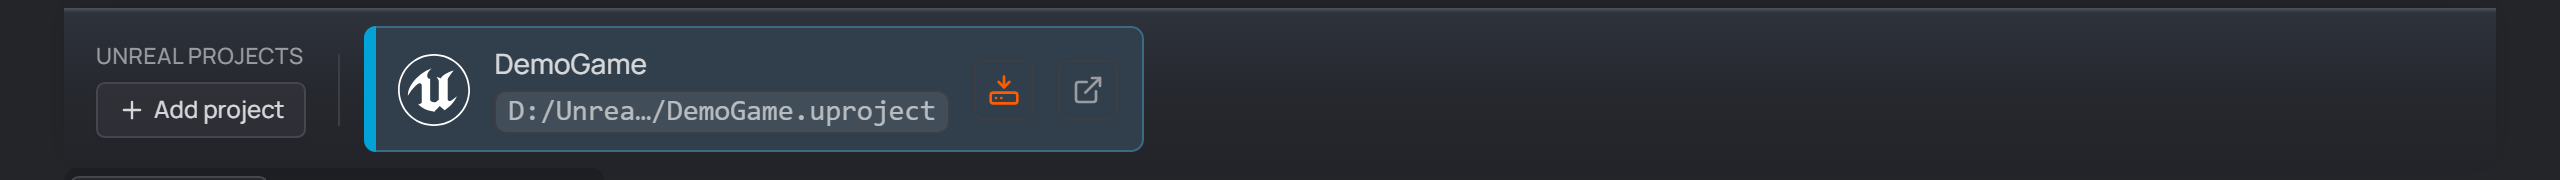
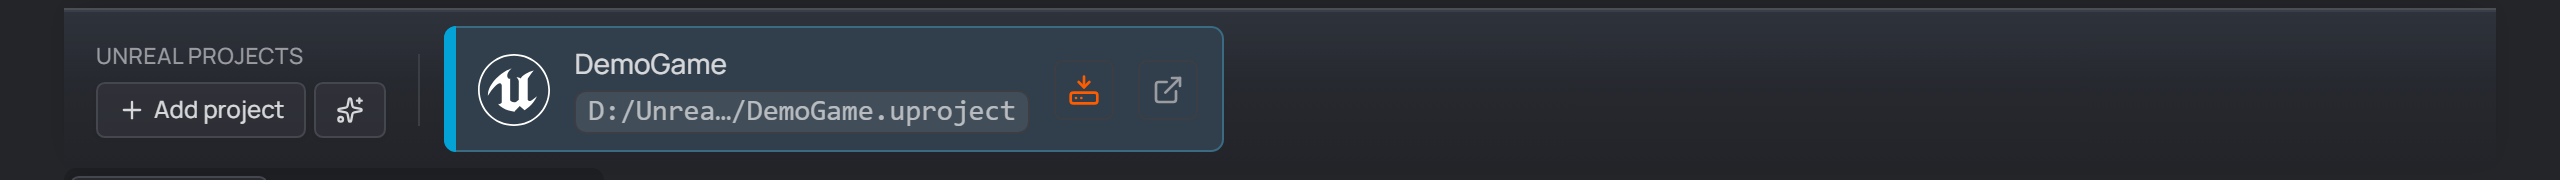
fix(web): grill follow-ups on the Unreal install dialogs
- Generate dialog: the engine list and the plugin scan load separately,
  each caught — a failed plugin scan degrades to "no offered builds"
  instead of an unhandled rejection pinning "Looking for engines…".
- Install dialog: a partial-failure retry keeps only the FAILED items
  checked after the re-probe — it no longer re-checks what succeeded,
  nor wipes a hand-picked GUID-project selection back to DTH-only.
- matchPluginsToEngine: the tie-break doc claimed "first configured
  folder wins"; the scan sorts by name/version/PATH, so the winner is
  the alphabetically first path — deterministic either way, words fixed.
- unreal-install-detect.smoke.ts: the two Settings panels get coverage
  (numeric newest-first engine sort, stale-registry flag, per-folder
  plugin preview, empty-folder warning).
- project-unreal-footer.png regenerated — the guide shot now shows the
  ✨ Generate button the text right above it describes.

Claude-Session: https://claude.ai/code/session_01PJQjAnFsonr6DLLk5KuJkv

Changed region(s): [[0.125, 0.1389, 0.5, 0.8611], [0.4375, 0.1389, 0.5, 0.1667]]

diff --git a/apps/web/src/components/unreal-install-dialog.tsx b/apps/web/src/components/unreal-install-dialog.tsx
@@ -88,7 +88,8 @@ function buildItems(
 interface InstallOutcome {
   /** Success summaries, in run order ("DTH content (12 files)"). */
   installed: Array<string>
-  failed: Array<{ label: string; message: string }>
+  /** `key` kept so a partial-failure retry can re-check exactly these. */
+  failed: Array<{ key: string; label: string; message: string }>
   dthInstalled: boolean
 }
 
@@ -114,7 +115,11 @@ async function runChecked(
       outcome.installed.push(`${item.label} (${files} file${files === 1 ? '' : 's'})`)
       if (!item.plugin) outcome.dthInstalled = true
     } catch (e) {
-      outcome.failed.push({ label: item.label, message: e instanceof Error ? e.message : String(e) })
+      outcome.failed.push({
+        key: item.key,
+        label: item.label,
+        message: e instanceof Error ? e.message : String(e),
+      })
     }
   }
   return outcome
@@ -210,7 +215,7 @@ export function UnrealInstallDialog({
   const [checked, setChecked] = useState<ReadonlySet<string>>(new Set())
   const [busy, setBusy] = useState(false)
 
-  const load = useCallback(async () => {
+  const load = useCallback(async (): Promise<Array<ChecklistItem> | null> => {
     setLoadState('loading')
     try {
       const [state, scan] = await Promise.all([
@@ -226,9 +231,11 @@ export function UnrealInstallDialog({
       // engine: only the engine-independent DTH content starts checked.
       setChecked(new Set(version === null ? [DTH_CONTENT_KEY] : list.map((item) => item.key)))
       setLoadState('ready')
+      return list
     } catch (e) {
       setLoadError(e instanceof Error ? e.message : String(e))
       setLoadState('error')
+      return null
     }
   }, [uprojectPath])
   useEffect(() => {
@@ -245,8 +252,15 @@ export function UnrealInstallDialog({
         onClose()
       } else {
         // Partial failure: stay open and re-probe, so the checklist tells the
-        // truth about what IS there now instead of repeating the stale state.
-        await load()
+        // truth about what IS there now instead of repeating the stale state —
+        // and keep only the FAILED items checked: the retry redoes what went
+        // wrong, not what already succeeded (and never discards a hand-picked
+        // GUID-project selection back to the DTH-only default).
+        const fresh = await load()
+        const failedKeys = new Set(outcome.failed.map((f) => f.key))
+        if (fresh) {
+          setChecked(new Set(fresh.filter((item) => failedKeys.has(item.key)).map((item) => item.key)))
+        }
       }
     } finally {
       setBusy(false)
@@ -366,12 +380,26 @@ export function UnrealGenerateDialog({
 
   useEffect(() => {
     let active = true
-    void Promise.all([detectUnrealEngines(), scanUnrealPlugins()]).then(([scan, builds]) => {
-      if (!active) return
-      setEngines(scan.installs)
-      setEngineVersion(defaultUnrealEngine(scan.installs)?.version ?? '')
-      setPlugins(builds)
-    })
+    // Separate loads: the plugin scan can fail (settings read, transport) and
+    // must not take the engine list down with it — engines render either way,
+    // a failed scan just offers no builds. Unguarded, a rejection would pin
+    // the dialog on "Looking for engines…" forever.
+    void detectUnrealEngines()
+      .then((scan) => {
+        if (!active) return
+        setEngines(scan.installs)
+        setEngineVersion(defaultUnrealEngine(scan.installs)?.version ?? '')
+      })
+      .catch(() => {
+        if (active) setEngines([])
+      })
+    void scanUnrealPlugins()
+      .then((builds) => {
+        if (active) setPlugins(builds)
+      })
+      .catch(() => {
+        if (active) setPlugins([])
+      })
     return () => {
       active = false
     }

diff --git a/apps/web/smoke/unreal-install-detect.smoke.ts b/apps/web/smoke/unreal-install-detect.smoke.ts
@@ -1,0 +1,64 @@
+import { expect, test } from '@playwright/test'
+
+import { P, buildSeed } from './fixtures.ts'
+import { installTauriMock } from './tauri-mock.ts'
+
+// Settings → General, the Unreal pair: the engines panel (informational — a
+// `.uproject` names its own engine, there is nothing to activate) and the
+// plugin-folders panel with its per-folder preview. The registry read and the
+// folder walk are native with no stand-in here; the fake states what the
+// machine has. What this spec proves is the studio's half — the numeric
+// newest-first sort, the stale-registry flag, and the per-folder preview.
+
+const UE510 = 'D:/Epic/UE_5.10'
+const UE57 = 'C:/Program Files/Epic Games/UE_5.7'
+const BRIDGE = 'D:/Unreal Plugins/DazToUnrealBridge'
+const EMPTY = 'D:/Unreal Plugins/Nothing Here'
+
+test('engines list newest-first with the stale-registry flag; plugin folders preview their builds', async ({
+  page,
+}) => {
+  const seed = buildSeed({
+    activeProjectFile: P.dcsp,
+    unrealPluginFolders: [BRIDGE, EMPTY],
+    // Registry order deliberately not the display order — the panel must sort.
+    unrealEngineInstalls: [
+      { version: '5.7', path: UE57 },
+      { version: '5.10', path: UE510 },
+    ],
+    unrealPlugins: [
+      {
+        name: 'DazToUnreal',
+        path: `${BRIDGE}/UE_5.10/Plugins/DazToUnreal`,
+        engineVersion: '5.10',
+        sourceFolder: BRIDGE,
+      },
+      { name: 'AnyTool', path: `${BRIDGE}/AnyTool`, engineVersion: '', sourceFolder: BRIDGE },
+    ],
+  })
+  // 5.10 is really on disk; 5.7 is a stale registry leftover (measured on the
+  // dev machine: Epic's key can outlive an uninstall).
+  seed.files[`${UE510}/Engine/Build/Build.version`] = '{}'
+
+  await page.addInitScript(installTauriMock, seed)
+  await page.goto('/')
+  await page.getByRole('link', { name: 'Settings' }).click()
+  await page.getByRole('tab', { name: 'General' }).click()
+
+  // Engines: NUMERIC newest-first — a string sort (descending) would put
+  // "5.7" above "5.10". The uninstalled 5.7 is flagged, not hidden.
+  await expect(page.getByRole('button', { name: 'Rescan Unreal Engines' })).toBeVisible()
+  await expect(page.getByText('Unreal Engine 5.10', { exact: true })).toBeVisible()
+  const engineCards = page.locator('li').filter({ hasText: /Unreal Engine 5\./ })
+  await expect(engineCards.first()).toContainText('Unreal Engine 5.10')
+  await expect(page.getByText(/folder not found — the launcher/)).toBeVisible()
+
+  // Plugin folders: the bridge previews both builds with their engine labels…
+  await expect(page.getByRole('button', { name: 'Add Unreal plugins folder' })).toBeVisible()
+  await expect(page.getByText('DazToUnreal', { exact: true })).toBeVisible()
+  await expect(page.getByText('UE 5.10', { exact: true })).toBeVisible()
+  await expect(page.getByText('AnyTool', { exact: true })).toBeVisible()
+  await expect(page.getByText('any engine', { exact: true })).toBeVisible()
+  // …and the folder with nothing recognized says so instead of staying blank.
+  await expect(page.getByText(/No Unreal plugin found here/)).toBeVisible()
+})

diff --git a/apps/web/src/lib/unreal-install.ts b/apps/web/src/lib/unreal-install.ts
@@ -120,8 +120,9 @@ export function pluginMatchesEngine(plugin: UnrealPluginSource, engineVersion: s
  *
  * One per name because the install target is `Plugins/<name>`: offering two
  * builds of one plugin would offer two writes to the same folder. An exact
- * version match beats an any-engine build; ties keep the scan's own order
- * (name, version, path — so the first configured folder wins).
+ * version match beats an any-engine build; a same-version tie keeps the scan's
+ * own order — the Rust scan sorts by name, version, then PATH, so the
+ * alphabetically first build path wins, deterministically.
  */
 export function matchPluginsToEngine(
   plugins: ReadonlyArray<UnrealPluginSource>,

diff --git a/apps/web/src/components/unreal-install-dialog.test.tsx b/apps/web/src/components/unreal-install-dialog.test.tsx
@@ -133,6 +133,12 @@ describe('UnrealInstallDialog', () => {
     // A failed item keeps the dialog open, and the state is re-read from disk.
     await waitFor(() => expect(unrealProjectState).toHaveBeenCalledTimes(2))
     expect(onClose).not.toHaveBeenCalled()
+    // Only the FAILED items stay checked for the retry — the succeeded DTH
+    // content is unchecked, so a second Install redoes just what went wrong.
+    await waitFor(() => {
+      const boxes = screen.getAllByRole('checkbox') as Array<HTMLInputElement>
+      expect(boxes.map((box) => box.checked)).toEqual([false, true, true])
+    })
   })
 })
 

diff --git a/apps/web/src/lib/unreal-install.test.ts b/apps/web/src/lib/unreal-install.test.ts
@@ -88,7 +88,7 @@ describe('plugin matching', () => {
     ])
   })
 
-  it('keeps the first configured folder on a same-version tie', () => {
+  it('keeps the scan order on a same-version tie (the scan sorts by path — deterministic)', () => {
     const offered = matchPluginsToEngine(
       [
         plugin({ engineVersion: '5.7', path: 'D:/first/DazToUnreal' }),
